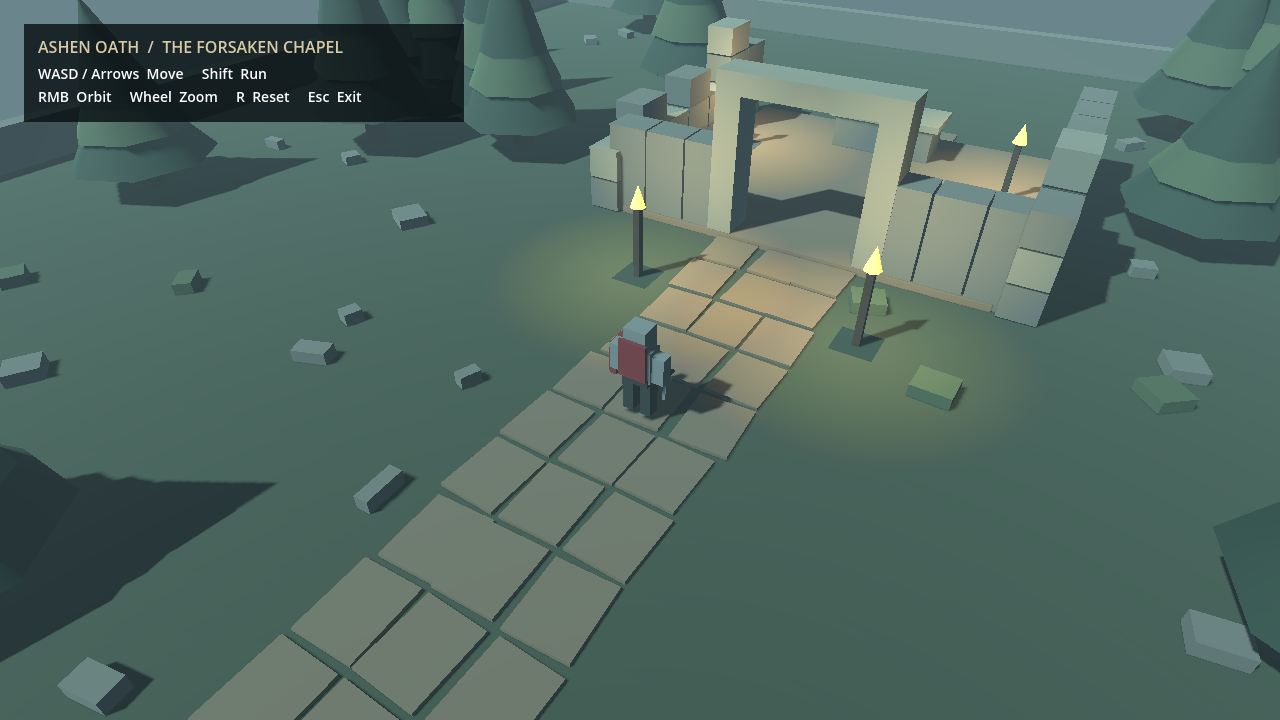
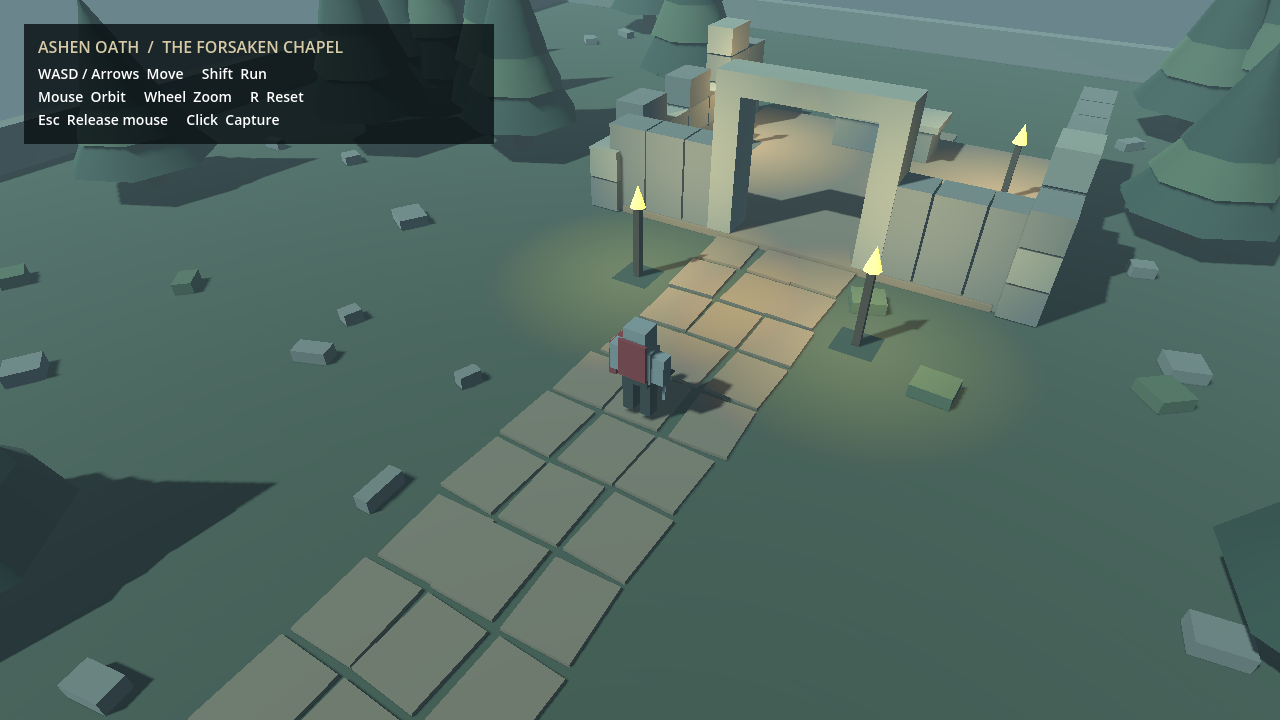
feat: capture mouse and smooth third person camera controls

Changed region(s): [[0.0, 0.0306, 0.4062, 0.2139]]

diff --git a/docs/VALIDATION.md b/docs/VALIDATION.md
@@ -28,3 +28,14 @@
 
 ## 版本提示修复
 项目初始 config/features 错标为 4.3，但实际测试引擎为 4.7.2，导致项目管理器提示升级到 4.7。现已修正为 4.7，并移除 README 中未经验证的 4.3+ 兼容声明。重新运行 9 项回归全部通过（退出 0）。未改动视觉或玩法；尚未通过项目管理器 UI 复测弹窗。
+
+## 第三人称摄像机优化
+- 修改前检查点 d056f1f 保存用户打开 Godot 后产生的项目格式与导入/UID 元数据；没有回退或覆盖这些变更。
+- 启动捕获鼠标，InputEventMouseMotion.screen_relative 直接控制视角；Esc 在 _input 中释放并消费事件，删除世界旧退出逻辑。左/右键点击游戏画面重新捕获，失焦/退出场景释放鼠标。
+- 跟随、旋转和缩放使用指数平滑，跟随在角色物理更新后执行；保留 SpringArm 碰撞避让、角色排除、默认 FOV、距离、场景灯光与材质。
+- 导出旋转灵敏度、俯仰限制、跟随偏移/速度、旋转速度、距离上下限、滚轮步长和缩放速度。
+- 首次 headless 测试的 7 项鼠标相关检查失败：无头显示后端不能捕获鼠标。改用真实图形窗口后 19 项全部通过，退出 0；测试脚本现明确拒绝无头运行，退出 2，不伪报通过。
+- 图形测试使用窗口输入事件注入验证鼠标转动、Esc 和点击传播；位置跟随收敛、滚轮/上下限、俯仰限制、原角色移动、跑步、碰撞及重置均通过。不是手工真人试玩；窗口失焦释放已实现，但未单独模拟操作系统焦点切换。
+- capture_preview.gd 实际 OpenGL 图形运行退出 0；查看更新截图，默认构图正常，UI 提示已更新。
+- GitHub 同步尝试仍因授权失效退出 1；origin 未配置，未创建仓库或远程推送。
+- 鼠标事件依据 Godot 官方说明：https://docs.godotengine.org/en/stable/classes/class_inputeventmousemotion.html

diff --git a/AGENTS.md b/AGENTS.md
@@ -10,3 +10,5 @@
 本机已验证 Godot：`/Users/mac/Downloads/Godot.app/Contents/MacOS/Godot`（4.7.2）。Blender 未找到。执行 tests/prototype_test.gd 回归；图形运行 tools/capture_preview.gd 验证截图。只记录实际测试结果。
 
 项目版本标记必须与实际验证的编辑器版本一致；当前为 4.7，未验证 4.3 兼容性。
+
+摄像机输入回归 tests/prototype_test.gd 现在必须在图形窗口运行，不使用 --headless；捕获模式按 Esc 释放，点击重新捕获。

diff --git a/DEVELOPMENT_PLAN.md b/DEVELOPMENT_PLAN.md
@@ -14,3 +14,5 @@
 阶段 2：基础占位原型完成；已实际渲染并修复过曝和构图，回归测试通过。待用户试玩验收；尚未验证 Windows 导出。最终验证结论见 docs/VALIDATION.md。
 
 维护修复：将项目编辑器版本标记从 4.3 修正为实际验证的 4.7，避免打开时出现误导性的迁移提示。
+
+摄像机控制优化完成：自动鼠标捕获、直接视角控制、Esc 释放/点击重捕获、平滑跟随与可调参数；不扩展玩法。
